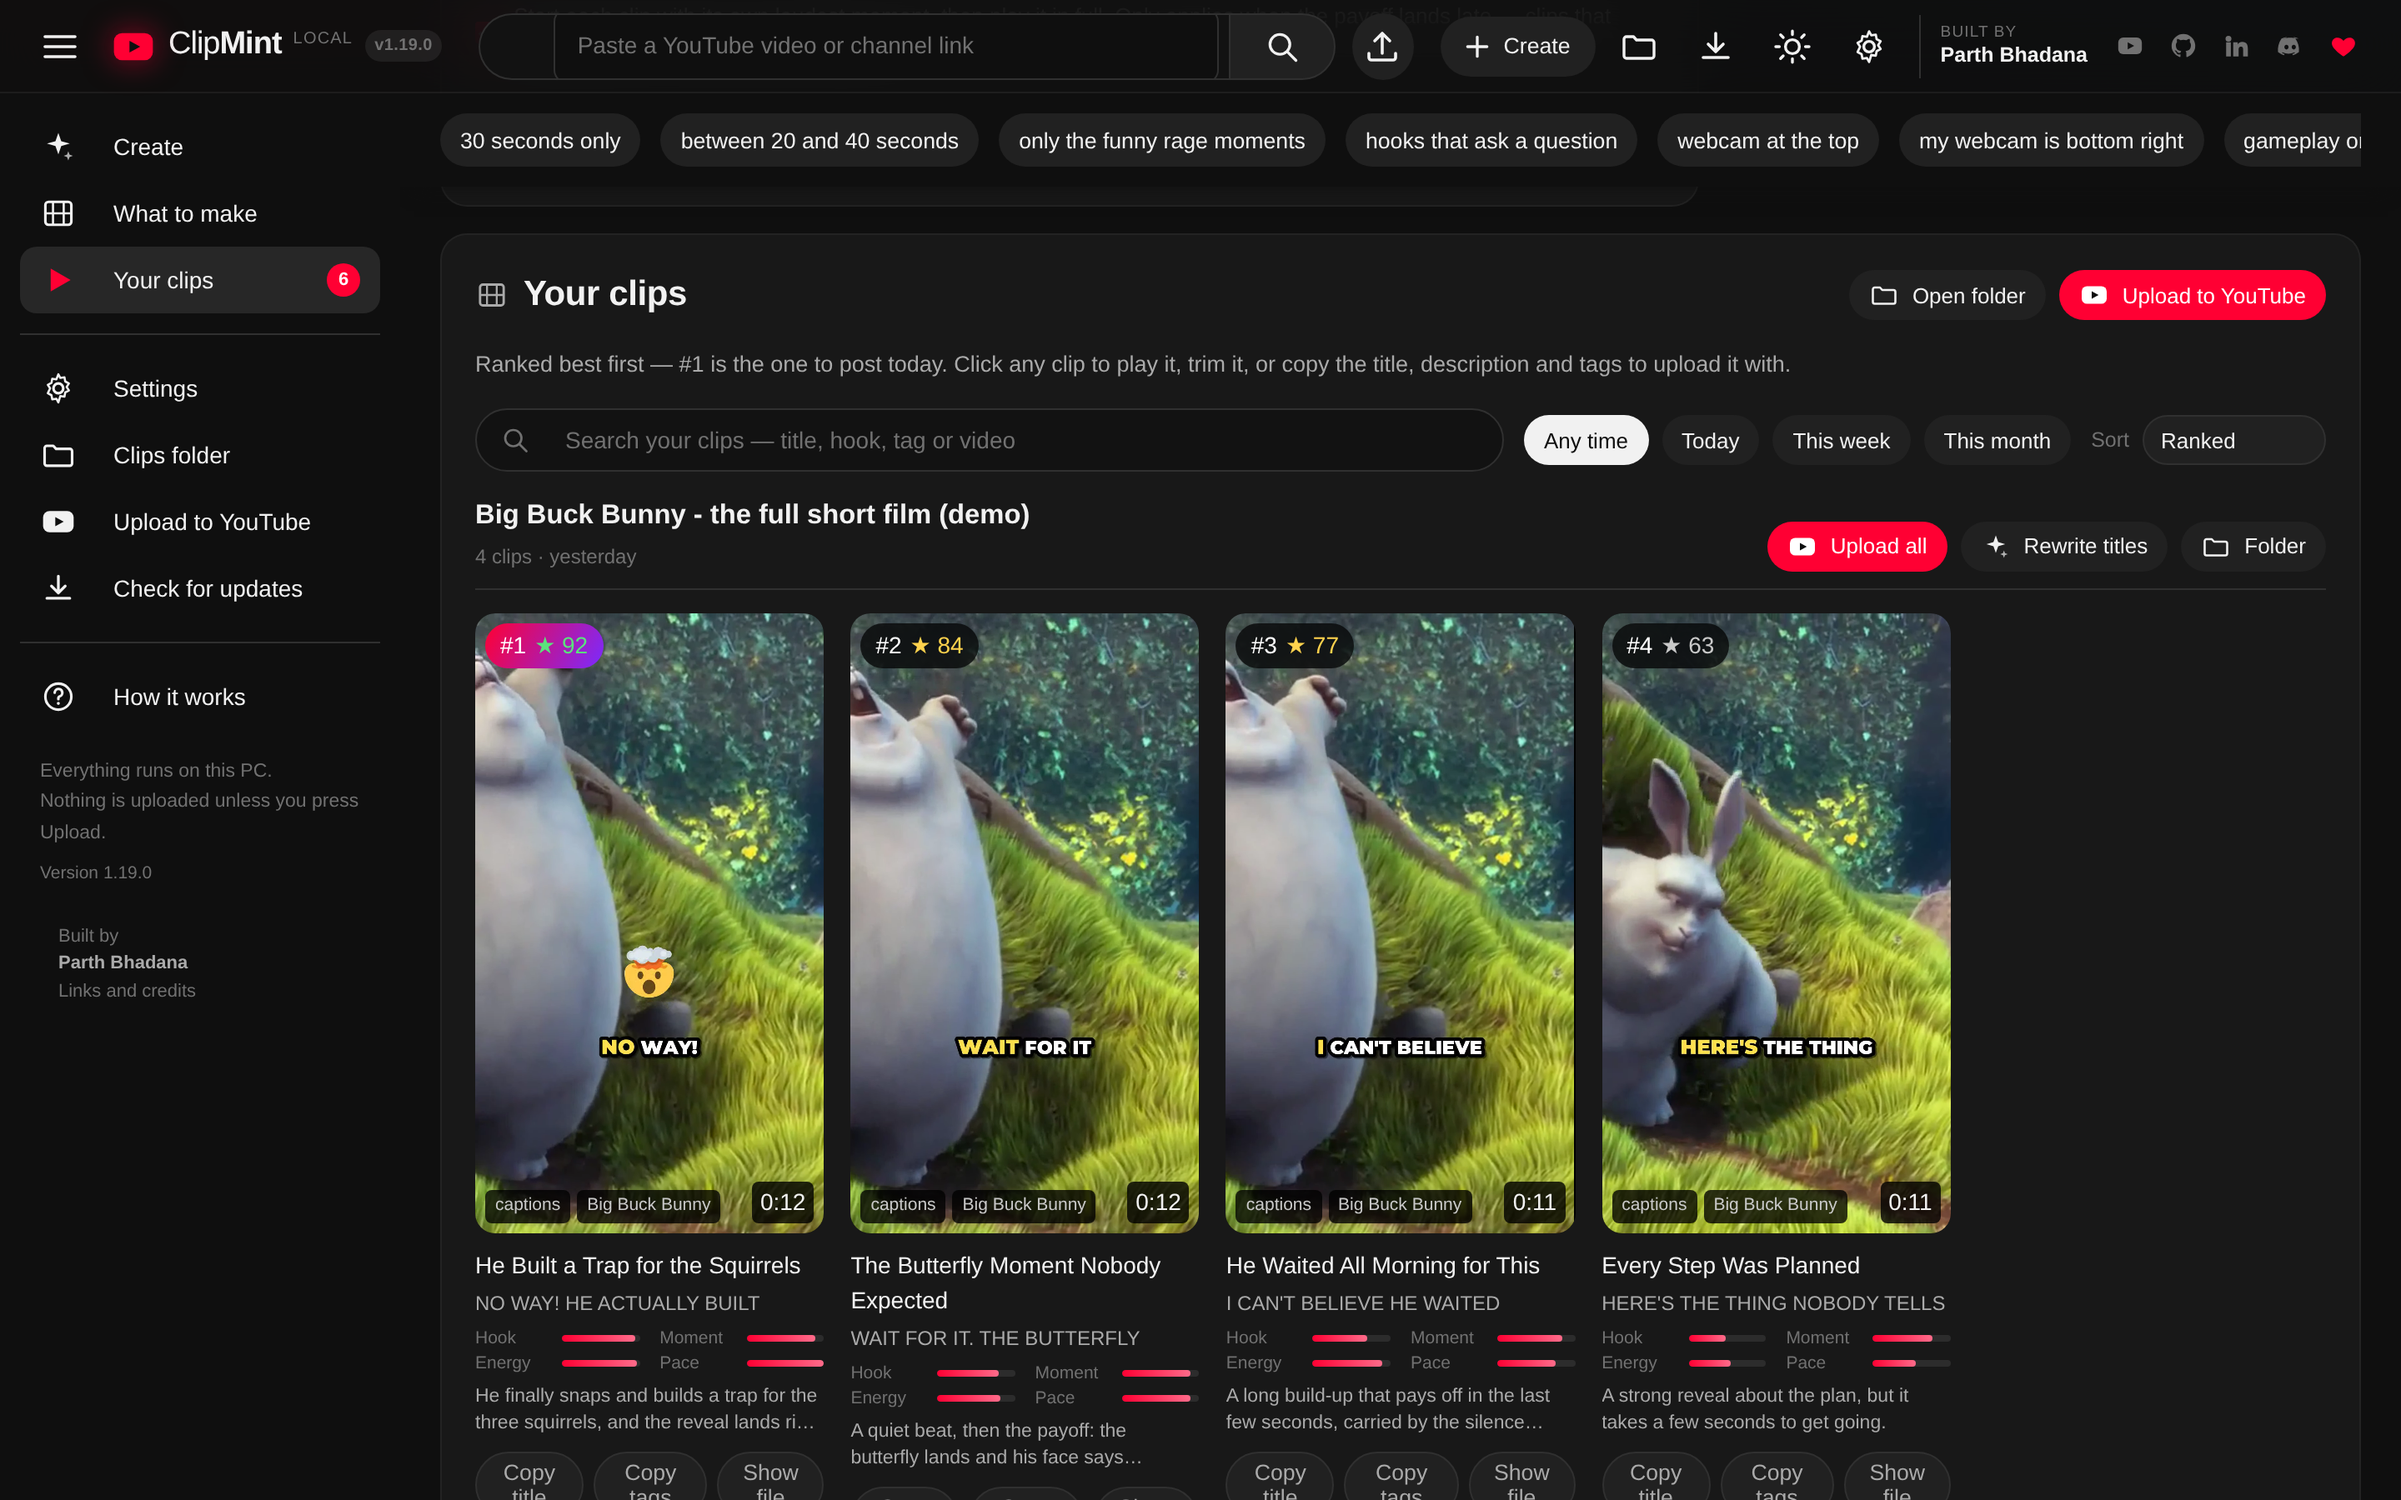
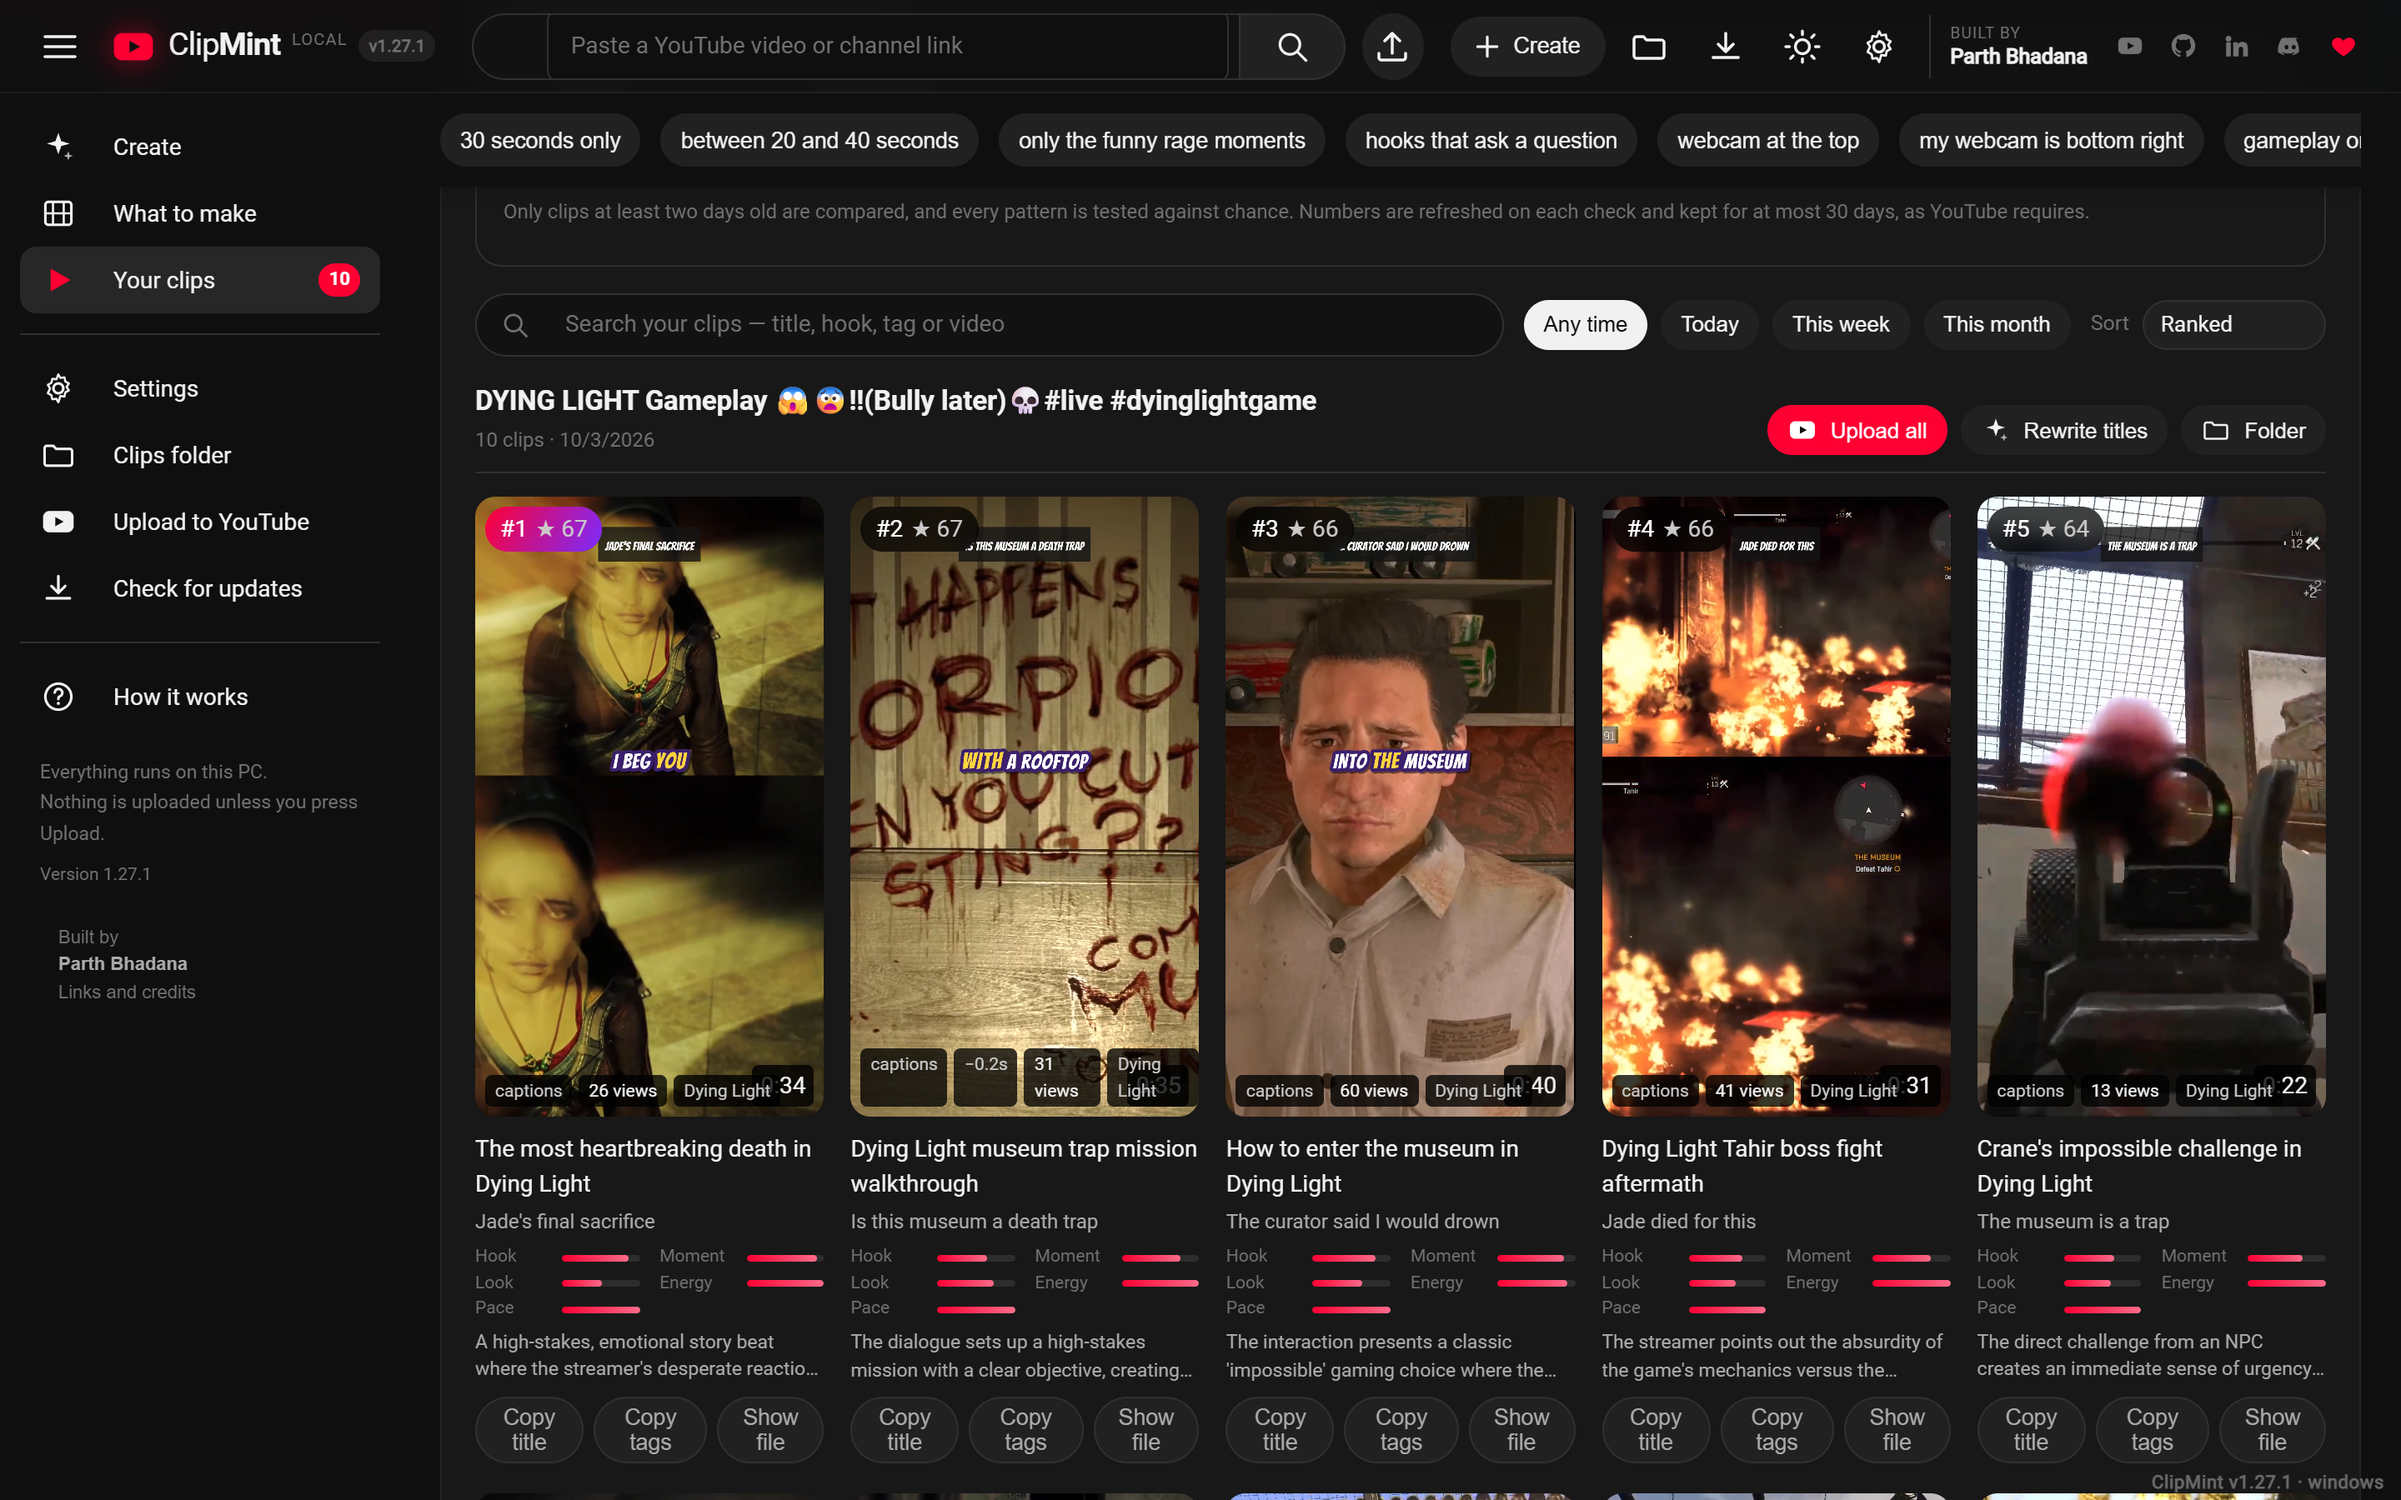
screenshots: retake all seventeen at v1.27.1, on a Dying Light stream
Every screen now carries the version watermark in its corner. The clips,
scores, captions and view counts are what ClipMint made of the stream and
what YouTube counted. Alt text in the README, the captions guide and the
site describes the new pictures.

diff --git a/site/index.html b/site/index.html
@@ -208,7 +208,7 @@
     <p>Automatic is right most of the time. For the rest, every clip opens in a player where
       you can fix it without running anything again:</p>
     <img class="shot" src="frame.png" width="1440" height="900" loading="lazy"
-         alt="The clip player with the Frame panel open: the whole source picture with the part the Short shows boxed in red, the webcam marked as found automatically, and a line on the clip showing where the captions will land">
+         alt="The clip player with the Frame panel open: the whole source picture with the part the Short shows boxed in red, a slider for which moment to look at, and a Captions slider for where they land">
     <ul>
       <li><b>Framed wrong?</b> Press <b>Frame</b> and the whole source picture opens with the
         part the Short shows marked on it. Drag the box to where it should be. On a

diff --git a/README.md b/README.md
@@ -66,9 +66,9 @@ the architecture, the hard problems, and the numbers.
 
 **[▶ Watch the 58-second tour](https://klez799.github.io/clipmint/#showcase)** · [or the mp4](assets/showcase/clipmint-showcase.mp4)
 
-<img src="assets/screenshots/01-create.png" alt="The create screen: a prompt typed like a message, give me 2 funny ones and 2 where I ask chat a question, around 30 sec each, 720p is fine, answered underneath with I'll make 4 clips: 2 funny ones and 2 where you ask chat a question, about 30 seconds each in 720p; Stream or gaming chosen, and the live 9:16 preview listing both groups" width="880">
+<img src="assets/screenshots/01-create.png" alt="The create screen: a prompt typed like a message, give me 2 funny ones and 2 where I ask chat a question, around 30 sec each, 720p is fine, answered underneath with Got it! Making 4 clips: 2 funny ones and 2 where you ask chat a question, around 30 seconds each in 720p; Stream or gaming chosen, and the live 9:16 preview, with the logo in its corner, listing both groups" width="880">
 
-<img src="assets/screenshots/00-welcome.png" alt="The launch card: what the app is, who made it, links to the channel, repo, Discord and email, and a donate button" width="640">
+<img src="assets/screenshots/00-welcome.png" alt="The launch card: what the app is, who made it and the version, links to the channel, repo, Discord and email, and a donate button" width="640">
 
 </div>
 
@@ -145,7 +145,7 @@ Transcribes the audio locally with faster-whisper, then ranks every moment for
 what actually travels: hooks, revelations, opinion bombs, story peaks. You get
 told which stage it's on, because a three-hour VOD is not a two-second wait.
 
-<img src="assets/screenshots/02-progress.png" alt="A run on its last stage, Captions and edits, at 8 of 10, with the log open showing each clip listened to and then captioned, cut and punched in" width="880">
+<img src="assets/screenshots/02-progress.png" alt="A run on its last stage, Captions and edits, at 8 of 10 and 93 percent with about a minute left, the log open showing each clip listened to and then captioned, cut and punched in" width="880">
 
 ### How long a run takes
 
@@ -342,7 +342,7 @@ better cover line, not skip it. Open **Boost** on any clip to see the numbers
 and a grade: Top pick, Strong, Worth a look or Long shot. The library can sort
 each run by its strongest hook or its most energy as well as by rank.
 
-<img src="assets/screenshots/03-clips.png" alt="Finished clips in a grid, each with its rank and a score coloured by grade, burned-in captions on the thumbnail, the Hook, Moment, Energy and Pace bars, and the reason it ranked" width="880">
+<img src="assets/screenshots/03-clips.png" alt="Finished clips from a Dying Light stream in a grid, each with its rank and a score, comic captions burned in, its view count on YouTube, the Hook, Moment, Look, Energy and Pace bars, and the reason it ranked" width="880">
 
 ### Captions, jump cuts and punch-ins, done for you
 
@@ -379,7 +379,7 @@ The same pass does the edit an editor would do next:
   free [Pexels](https://www.pexels.com/api/) key in Settings, and it never
   runs on a stream, where the gameplay is the picture.
 
-<img src="assets/screenshots/12-edit.png" alt="The Edit box under Render: Comic captions and Keep the pauses tagged set by your words because the prompt says so, then the Font row with Luckiest Guy chosen, green picked for the spoken word, Placement set to Middle, punch-ins ticked, emoji and B-roll off" width="880">
+<img src="assets/screenshots/12-edit.png" alt="The Edit box under Render: Comic captions, then the Font row with Luckiest Guy chosen, green picked for the spoken word, Placement set to Middle, pauses cut and punch-ins ticked, emoji and B-roll off, and the logo on" width="880">
 
 **Whisper got a name wrong?** Open the clip and press **Captions**. Type the
 line as it should read and burn it in again. Words you keep stay exactly where
@@ -392,7 +392,7 @@ only the text on screen changes.
 small and slightly see-through, in whichever corner you pick. A clip that
 gets reposted or screen-recorded still carries your name.
 
-<img src="assets/screenshots/14-logo-and-broll.png" alt="Settings: Your logo with its thumbnail, Upload and Remove and the corner picker, then B-roll with the Pexels key saved" width="880">
+<img src="assets/screenshots/14-logo-and-broll.png" alt="Settings: Your logo with its thumbnail, Upload a logo and Remove and the corner picker, then B-roll with the Pexels key saved" width="880">
 
 Pick them under **Render**, or say them in the prompt: *"comic captions, keep
 the pauses, add emoji"*. The words win over the switches, and the switches
@@ -437,9 +437,9 @@ see it, and hashtags that don't belong on that app. All of it is editable.
 the new title, so what is in the folder is always what goes into YouTube's title
 box.
 
-<img src="assets/screenshots/05-boost.png" alt="Boost on the top clip: a Top pick scorecard with its reason, the four bars with their numbers, three notes and what the edit did, then what the clip is filed under and five ranked title options" width="880">
+<img src="assets/screenshots/05-boost.png" alt="Boost on the top clip: a Worth a look scorecard with its reason, the five bars with their numbers, two notes and what the edit did, then what the clip is filed under and the title options, best first" width="880">
 
-<img src="assets/screenshots/07-reels.png" alt="Boost on the same clip, on the Instagram Reels tab: the caption with its character count and ranked caption options" width="880">
+<img src="assets/screenshots/07-reels.png" alt="Boost on the same clip, on the Instagram Reels tab: the caption with its character count, ready to copy" width="880">
 
 ### Post it to your channel, now or on a schedule
 
@@ -464,7 +464,7 @@ unticked with a note, and neither upload button sends one until you use
 AI for, so on a long stream they are the step most likely to meet a free
 tier's daily limit. A second provider's key in Settings covers that.
 
-<img src="assets/screenshots/11-upload-all.png" alt="Upload all on a run: scheduled, the first at 9 AM and then one a day, and each clip listed with its publish time and title, ready to edit" width="880">
+<img src="assets/screenshots/11-upload-all.png" alt="Upload all on a run: scheduled, the first at 8 PM and then one a day, Gaming as the category, and each clip listed with its publish time and title, ready to edit" width="880">
 
 <img src="assets/screenshots/09-youtube-upload.png" alt="Boost scrolled to Post it to your channel: going to Parth Bhadana, who can see it, the category, the made-for-kids question, and the Upload to YouTube button" width="880">
 
@@ -493,7 +493,7 @@ ClipMint reads the views, likes and comments of every clip that's on your
 channel, including ones you uploaded yourself, which it finds by title. Then it
 says what the numbers show:
 
-<img src="assets/screenshots/16-performance.png" alt="How your Shorts did: 26 clips on YouTube with a median of 7 views, a finding marked Looks real that clips with a title the AI actually wrote got a median of 42.5 views against 3.5 for the rest, a line listing what has no clear link yet, and a note that the ranking is unchanged" width="880">
+<img src="assets/screenshots/16-performance.png" alt="How your Shorts did: 37 clips on YouTube with a median of 12 views, a finding marked Looks real that clips with a title the AI actually wrote got a median of 31 views against 3.5 for the rest, two more marked Looks real, two marked Worth watching, a line listing what has no clear link yet, and a note that the ranking is unchanged" width="880">
 
 - **Every pattern is tested against chance.** With a few dozen Shorts, most
   differences are noise, and the panel says so: a finding is marked **Looks
@@ -637,9 +637,9 @@ source in a few seconds, and stays put through any later trim or caption fix.
   shaded, and the box is the game underneath it, for when the action is off to
   one side.
 
-<img src="assets/screenshots/15-frame.png" alt="The clip player with the Frame panel open: the whole source picture with the part the Short shows boxed in red and the rest dimmed, the webcam marked as found automatically, a slider for which moment to look at, a Captions slider, and a dashed line on the clip showing where the captions will land" width="880">
+<img src="assets/screenshots/15-frame.png" alt="The clip player with the Frame panel open: the whole source picture with the part the Short shows boxed in red, a slider for which moment to look at, a note that the frame follows the face until you place it, and a Captions slider" width="880">
 
-<img src="assets/screenshots/04-player-trim.png" alt="The clip player, its burned-in caption and emoji on screen, with the trim panel open showing in and out handles" width="880">
+<img src="assets/screenshots/04-player-trim.png" alt="The clip player, its burned-in comic caption on screen, with the trim panel open showing in and out handles" width="880">
 
 ---
 

diff --git a/docs/captions-and-editing.md b/docs/captions-and-editing.md
@@ -26,7 +26,7 @@ said.
 
 Pick a style under **Render → Edit → Captions**:
 
-<img src="../assets/screenshots/12-edit.png" alt="The Edit box under Render: Comic captions and Keep the pauses tagged set by your words, Luckiest Guy as the font, green for the spoken word, Placement on Middle" width="880">
+<img src="../assets/screenshots/12-edit.png" alt="The Edit box under Render: Comic captions, Luckiest Guy as the font, green for the spoken word, Placement on Middle" width="880">
 
 | Style | Looks like | Words at a time |
 |---|---|---|
@@ -218,7 +218,7 @@ later.
 Every clip card shows up to six bars under its title, and the model's own sentence
 on why the moment works:
 
-<img src="../assets/screenshots/03-clips.png" alt="Clips in a grid with burned-in captions, each card showing its score, the four bars and the reason it ranked" width="880">
+<img src="../assets/screenshots/03-clips.png" alt="Clips in a grid with burned-in captions, each card showing its score, the scorecard's bars and the reason it ranked" width="880">
 
 | Bar | Measures | From |
 |---|---|---|
